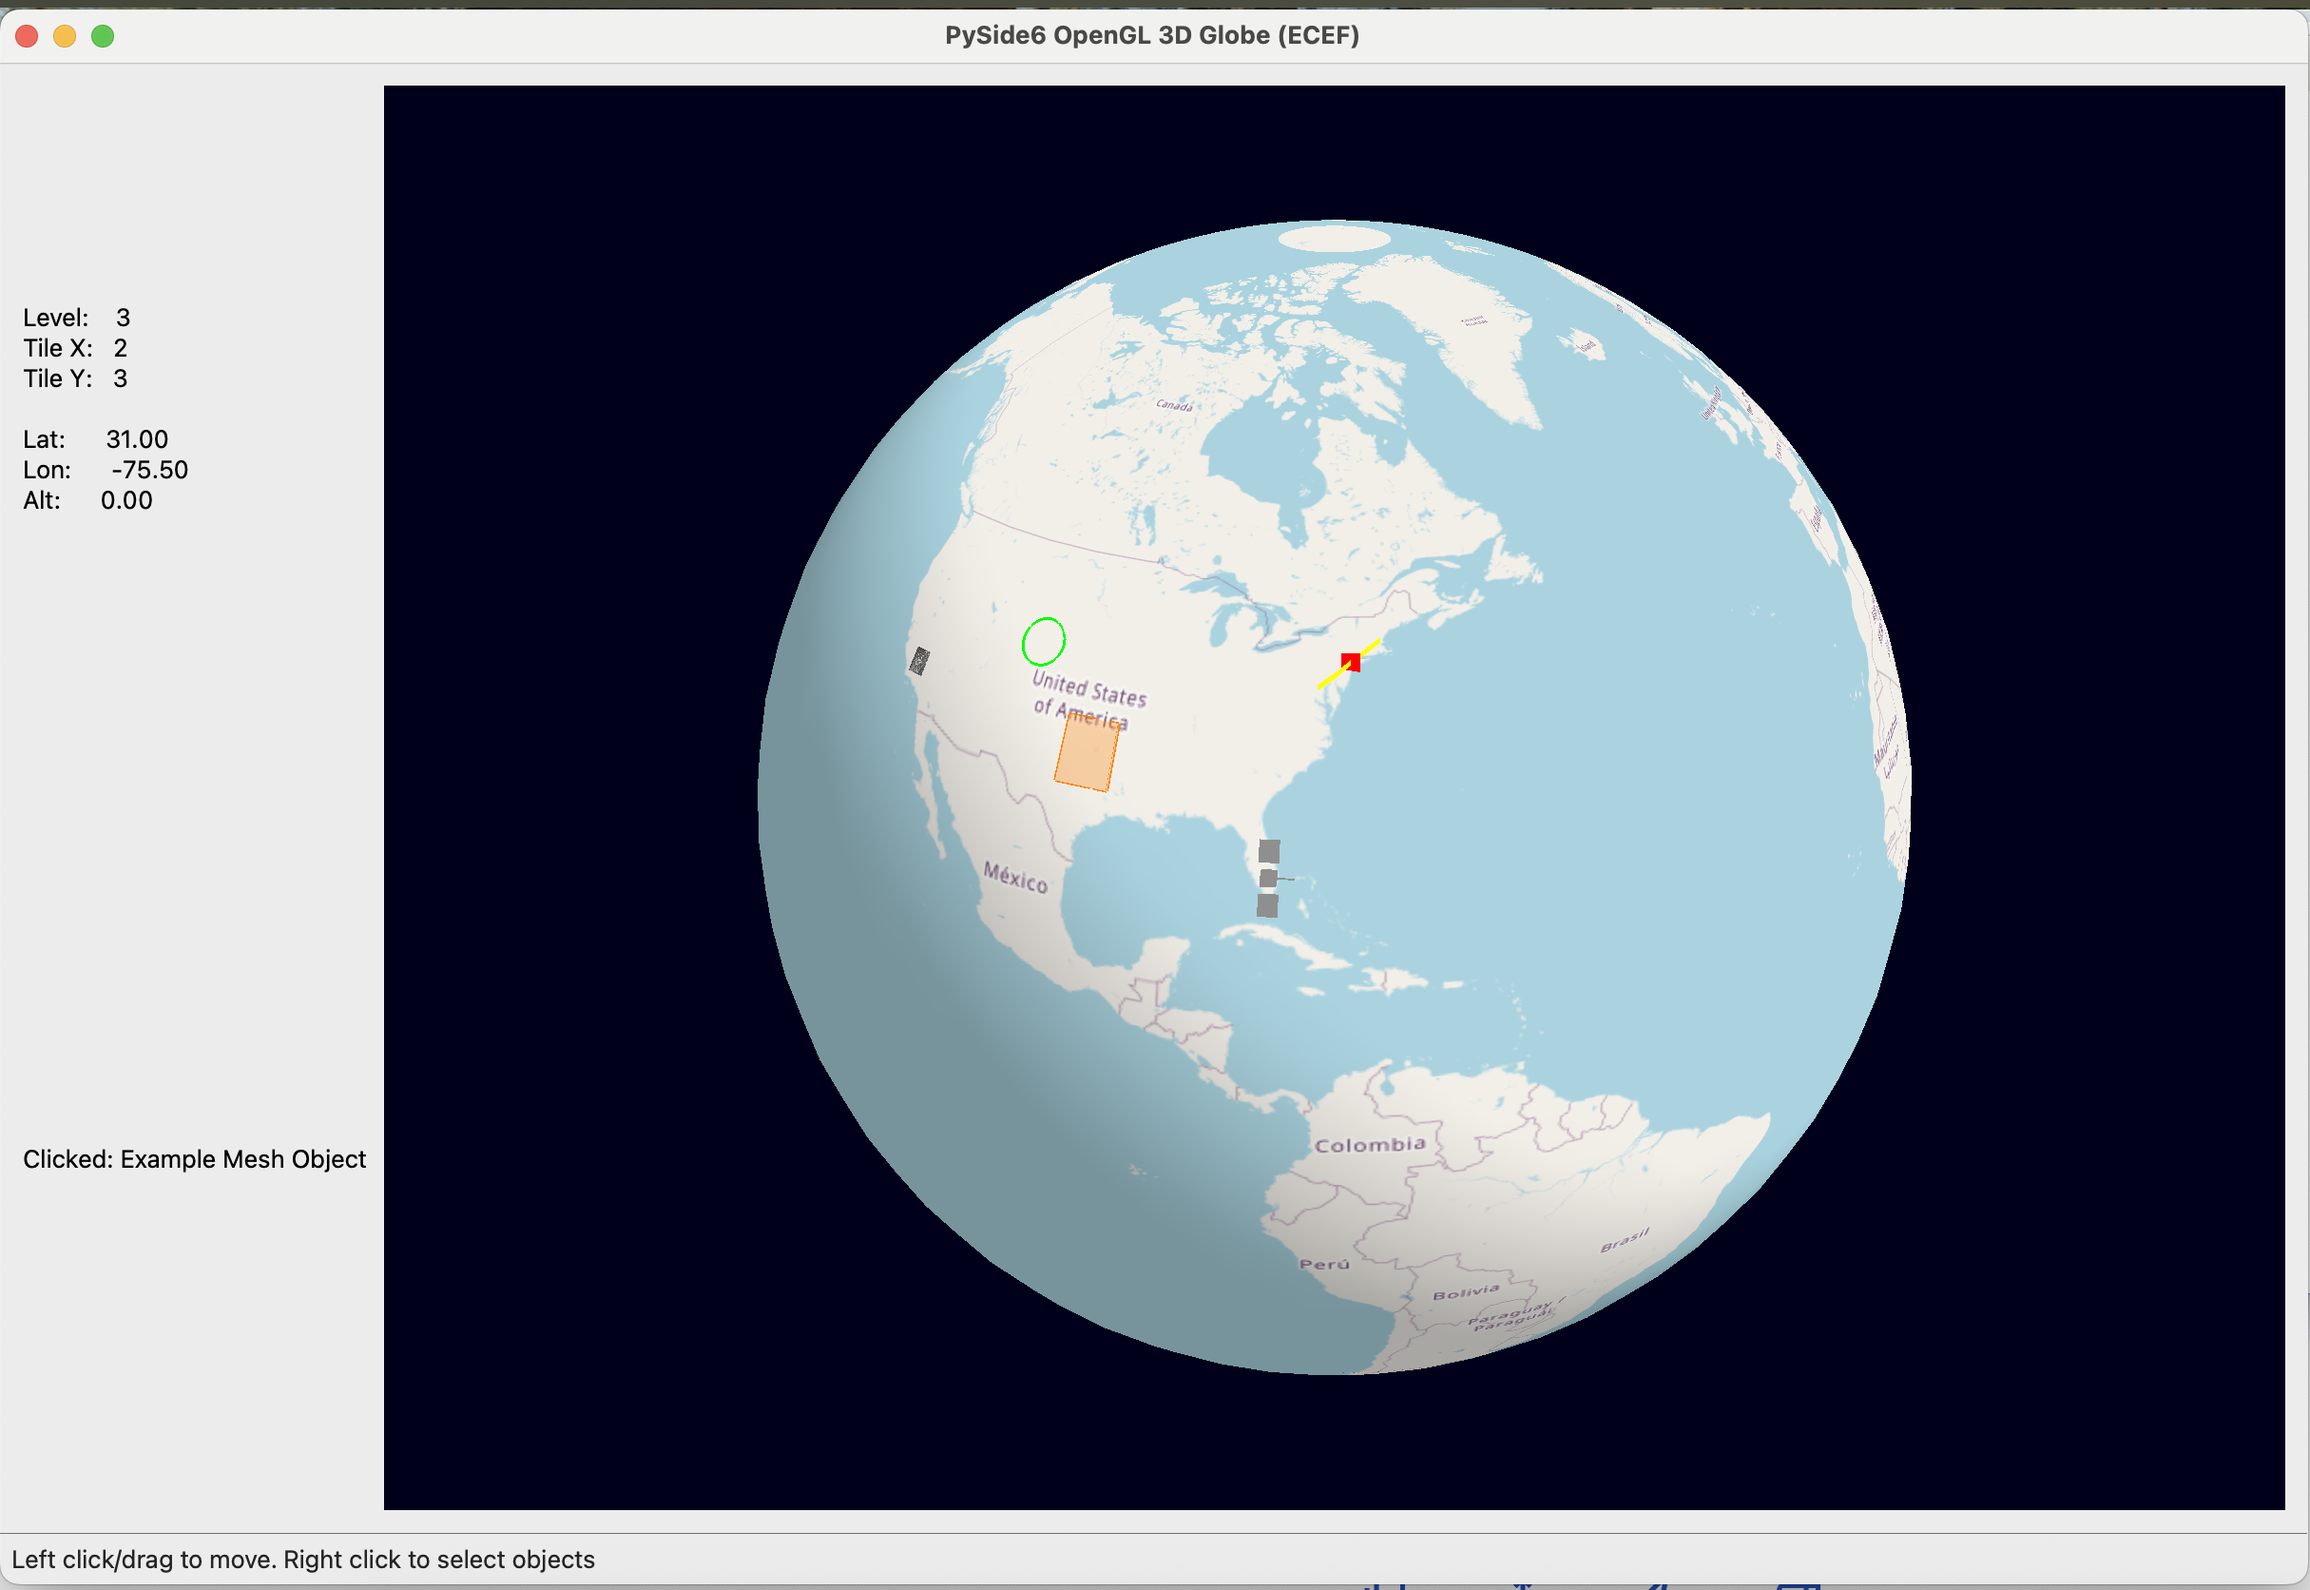
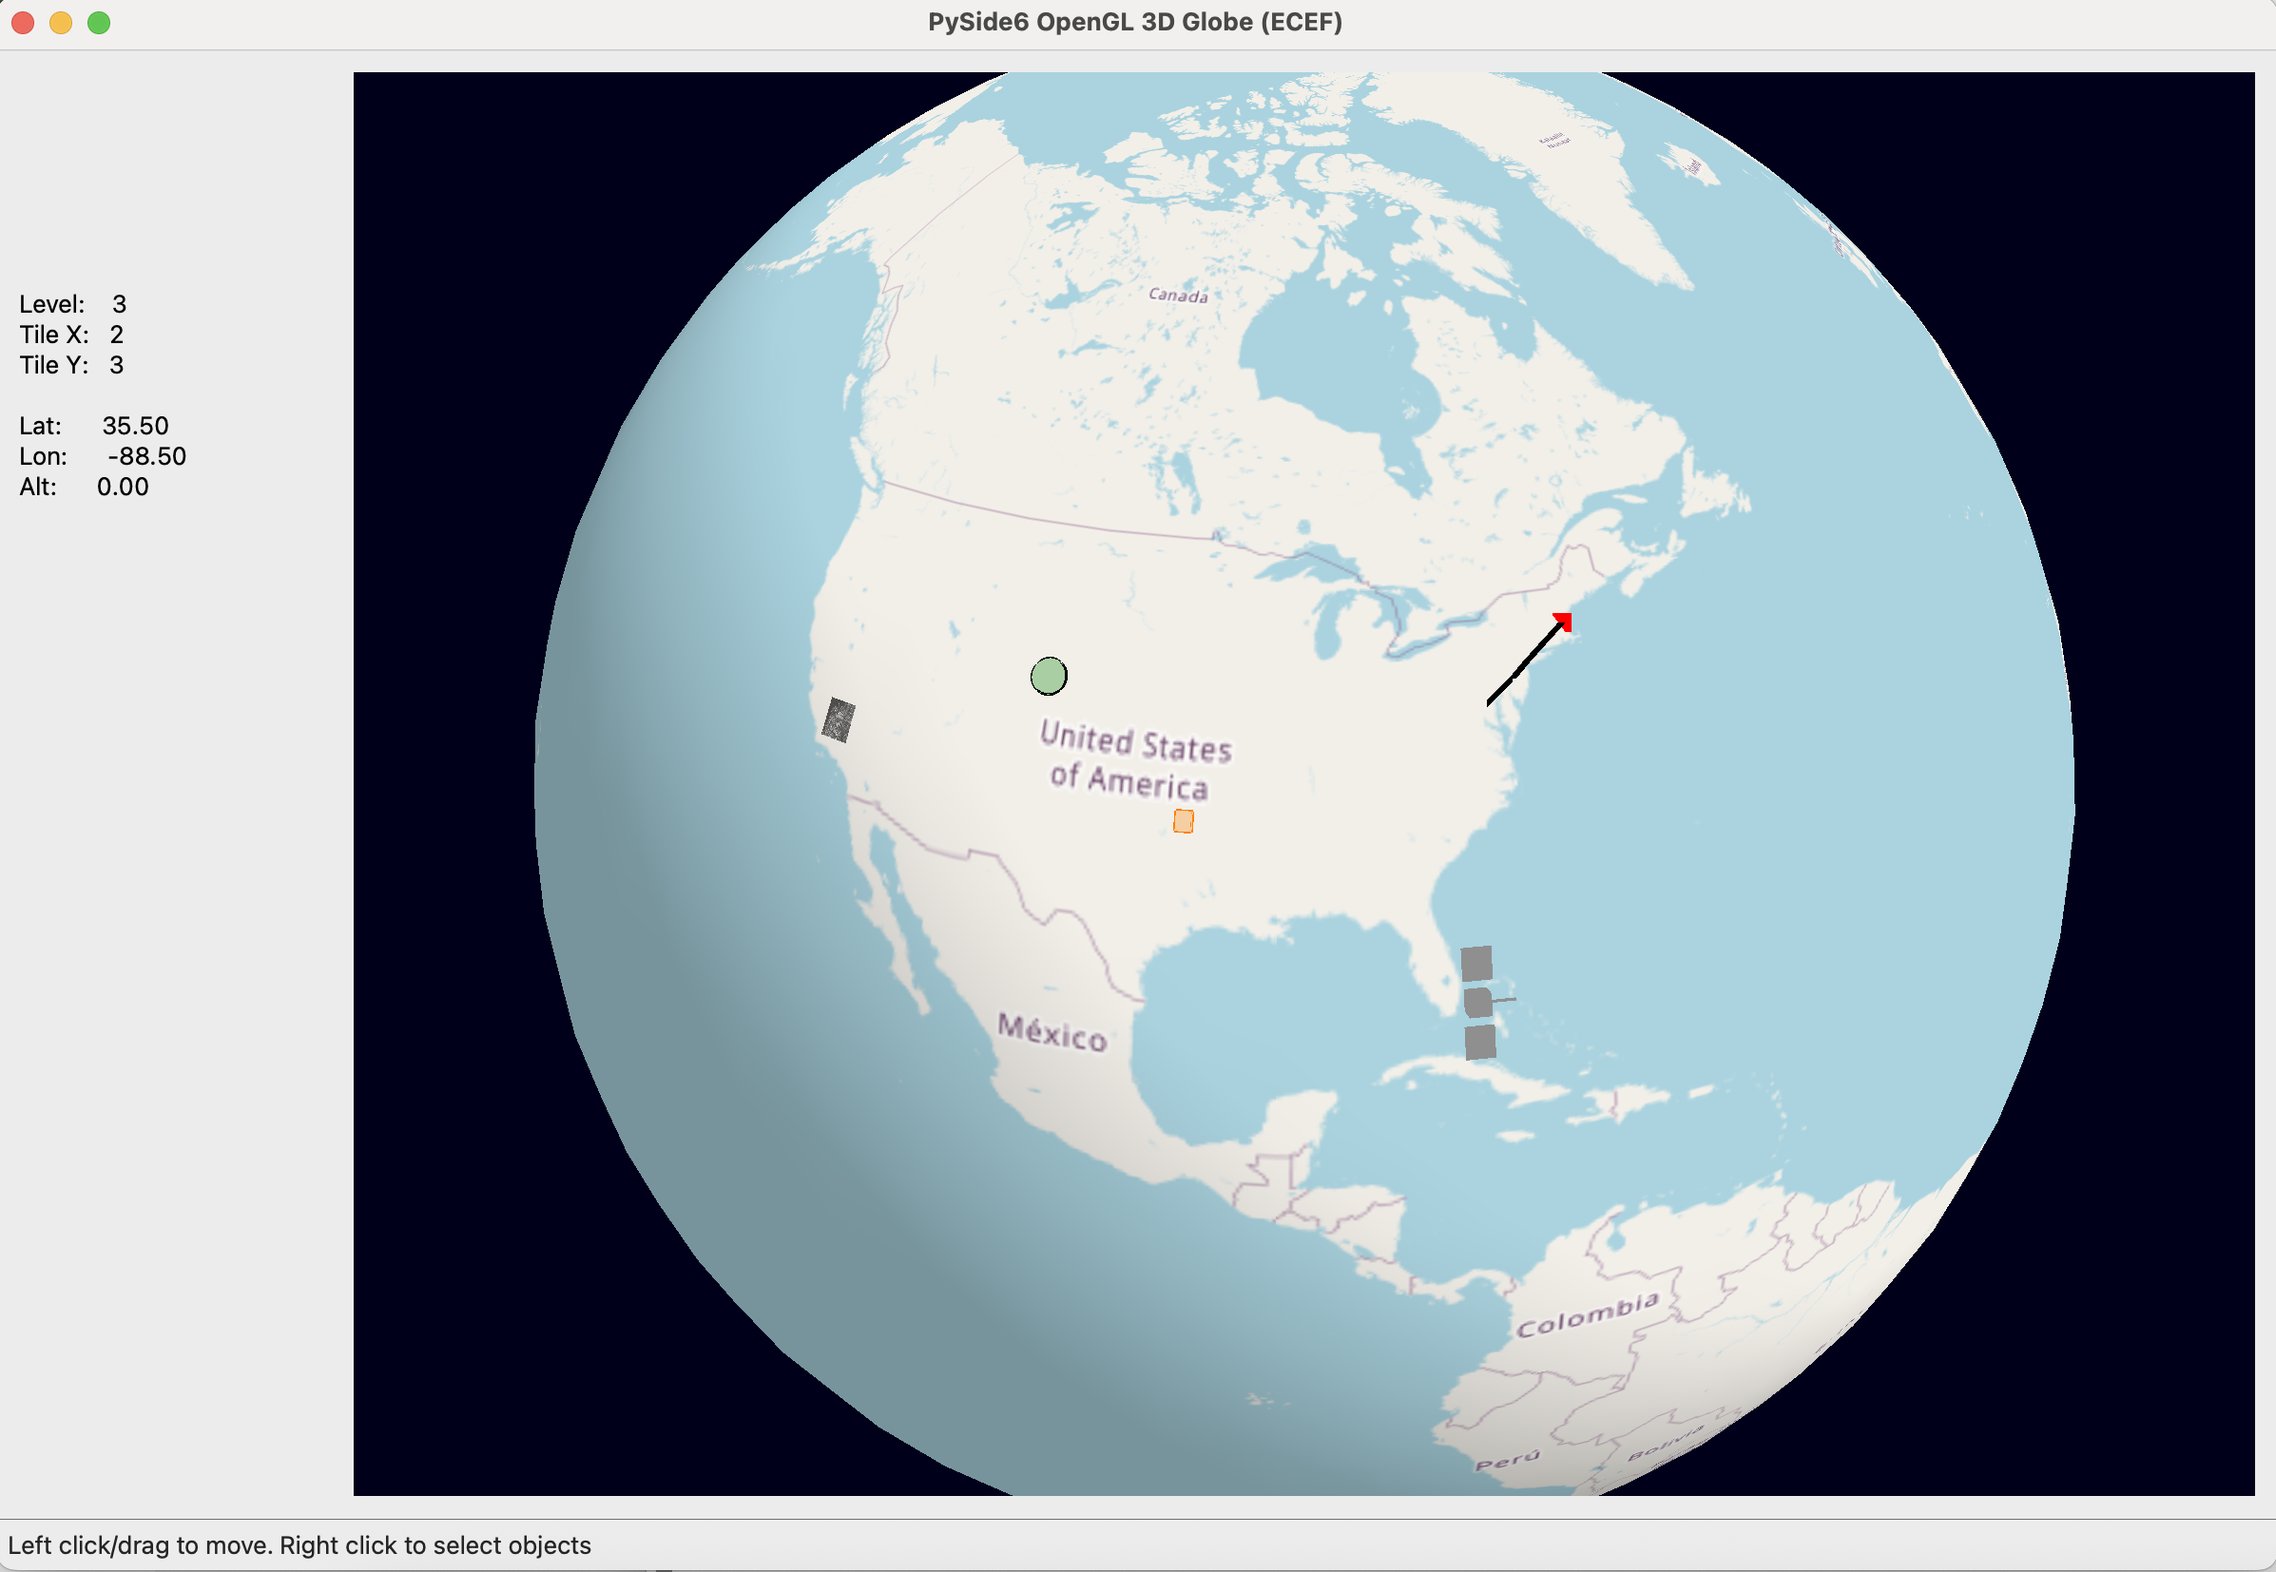
tuning up screen objects

diff --git a/pyglobe/scene.py b/pyglobe/scene.py
@@ -326,7 +326,7 @@ class CircleSceneObject(SceneObject):
     """Circle on the ground"""
     
     def __init__(self, label, center_lat, center_lon, radius_meters, 
-                 color=(0.0, 1.0, 0.0), width=2.0, num_points=64, altitude_offset=10.0):
+                 color=(0.0, 1.0, 0.0), fill_color=None, width=2.0, num_points=64, altitude_offset=10.0):
         super().__init__()
         self.label = label
         self.center_lat = center_lat
@@ -335,6 +335,7 @@ class CircleSceneObject(SceneObject):
         self.color = color
         self.width = width
         self.altitude_offset = altitude_offset
+        self.fill_color=fill_color
         
         # Generate circle points
         earth_radius = 6371000
@@ -364,6 +365,20 @@ class CircleSceneObject(SceneObject):
             
             glEnable(GL_POLYGON_OFFSET_LINE)
             glPolygonOffset(-1.0, -1.0)
+
+            # Draw filled polygon
+            if self.fill_color:
+                glEnable(GL_BLEND)
+                glBlendFunc(GL_SRC_ALPHA, GL_ONE_MINUS_SRC_ALPHA)
+                glColor4f(*self.fill_color)
+                
+                glBegin(GL_POLYGON)
+                for p in self.points_xyz:
+                    glVertex3f(*p)
+                glEnd()
+                
+                glDisable(GL_BLEND)
+
             
             glColor3f(*self.color)
             glLineWidth(self.width)
@@ -631,8 +646,8 @@ def add_test_objects(scene, satellite_obj_path="assets/satellite/satellite.obj",
     # 1. Point - Red marker over New York
     point = PointSceneObject(
         'Example Point',
-        lat=40.7128,
-        lon=-74.0060,
+        lat=42.3601,
+        lon=-71.0589,
         alt=0,
         color=(1.0, 0.0, 0.0),  # Red
         size=20.0,
@@ -651,8 +666,8 @@ def add_test_objects(scene, satellite_obj_path="assets/satellite/satellite.obj",
     track = PolyLineSceneObject(
         'Example Track',
         points_wgs84=track_points,
-        color=(1.0, 1.0, 0.0),  # Yellow
-        width=6.0,
+        color=(0.0, 0.0, 0.0),  # Yellow
+        width=8.0,
         altitude_offset=2000, # earth curvature
         pick_radius=25000
     )
@@ -664,8 +679,9 @@ def add_test_objects(scene, satellite_obj_path="assets/satellite/satellite.obj",
         'Example Circle',
         center_lat=39.7392,
         center_lon=-104.9903,
-        radius_meters=200000,  # 200 km
-        color=(0.0, 1.0, 0.0),  # Green
+        radius_meters=100000,
+        color=(0.0, 0.0, 0.0),
+        fill_color=(0.0, 0.5, 0.0, 0.3),
         width=3.0,
         altitude_offset=2000 # Earth curvature
     )
